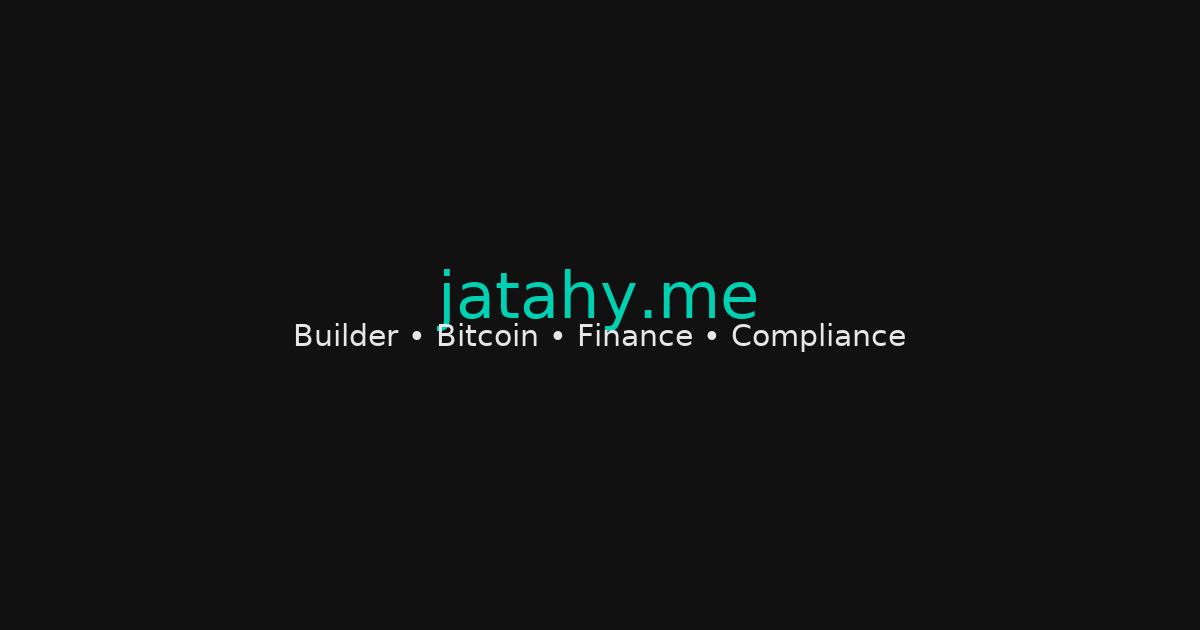
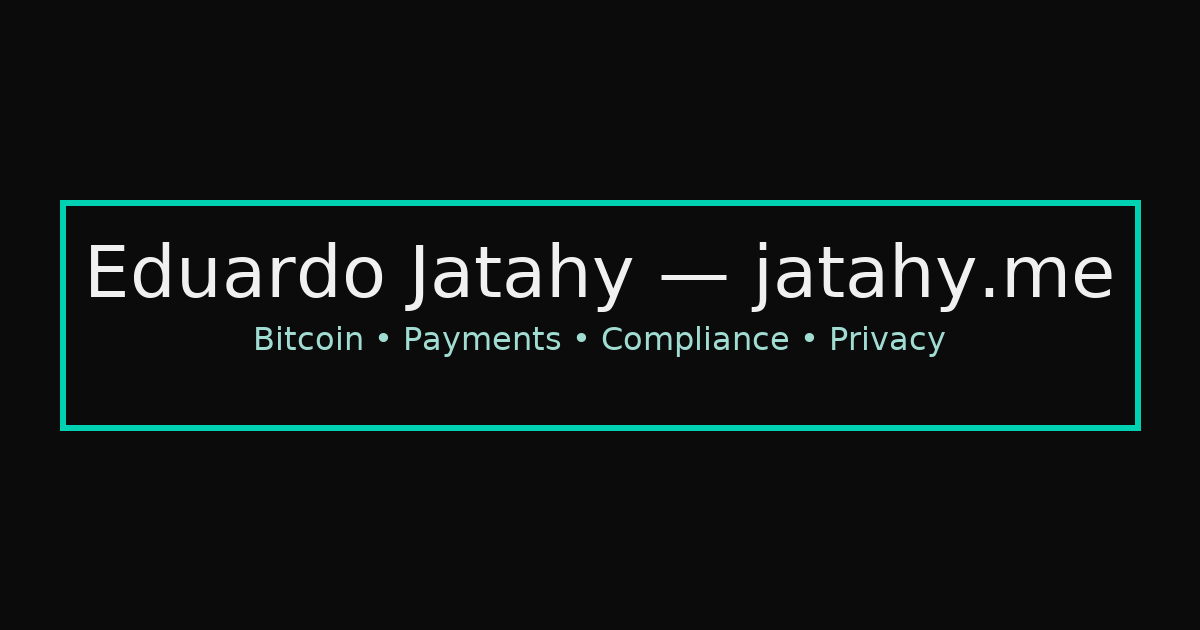
Add files via upload

Changed region(s): [[0.0308, 0.3016, 0.9558, 0.6937]]

diff --git a/assets/style.css b/assets/style.css
@@ -1,45 +1,68 @@
 
 :root{
   --bg:#0b0b0b;
-  --fg:#e8e8e8;
-  --muted:#b0b0b0;
+  --fg:#e9eef1;
+  --muted:#b8c2c6;
   --accent:#00d1b2;
-  --card:#121212;
-  --border:#1f1f1f;
+  --accent2:#00ffa3;
+  --card:#0f1214;
+  --border:#1a2226;
+  --shadow: 0 10px 30px rgba(0,0,0,.35);
 }
 *{box-sizing:border-box}
 html,body{height:100%}
 body{
   margin:0;
-  font-family:system-ui,-apple-system,Segoe UI,Roboto,Ubuntu,Cantarell,'Helvetica Neue',Arial,'Noto Sans',sans-serif;
-  background:var(--bg);
+  font-family:ui-sans-serif,system-ui,Segoe UI,Roboto,Ubuntu,Cantarell,'Helvetica Neue',Arial,'Noto Sans',sans-serif;
+  background: radial-gradient(1200px 800px at 10% -10%, rgba(0,209,178,.18), transparent),
+              radial-gradient(900px 700px at 110% 10%, rgba(0,255,163,.14), transparent),
+              #0b0b0b;
   color:var(--fg);
-  line-height:1.6;
+  line-height:1.65;
 }
-a{color:var(--accent);text-decoration:none}
-a:hover{text-decoration:underline}
-.container{max-width:1080px;margin:0 auto;padding:24px}
-nav{display:flex;justify-content:space-between;align-items:center;padding:16px 0;border-bottom:1px solid var(--border);position:sticky;top:0;background:rgba(11,11,11,0.8);backdrop-filter:blur(8px);}
-.brand{font-weight:700;letter-spacing:0.3px}
-.brand span{color:var(--accent)}
-nav ul{display:flex;gap:16px;list-style:none;margin:0;padding:0}
+a{color:var(--accent);text-decoration:none;transition:color .2s ease}
+a:hover{color:var(--accent2)}
+.container{max-width:1100px;margin:0 auto;padding:24px}
+nav{
+  display:flex;justify-content:space-between;align-items:center;
+  padding:14px 0;border-bottom:1px solid var(--border);
+  position:sticky;top:0;background:rgba(10,12,13,.7);backdrop-filter:blur(10px);z-index:20
+}
+.brand{display:flex;align-items:center;gap:10px;font-weight:800;letter-spacing:.3px}
+.badge-dot{width:8px;height:8px;border-radius:50%;background:linear-gradient(45deg,var(--accent),var(--accent2))}
+nav ul{display:flex;gap:14px;list-style:none;margin:0;padding:0}
 nav a{padding:8px 10px;border-radius:10px}
-.hero{display:grid;grid-template-columns:1.2fr 0.8fr;gap:32px;padding:56px 0}
-.hero h1{font-size:46px;line-height:1.1;margin:0 0 12px}
-.hero p{color:var(--muted);margin:0 0 24px}
-.card{background:var(--card);border:1px solid var(--border);border-radius:18px;padding:20px}
+.hero{
+  display:grid;grid-template-columns:1.2fr .8fr;gap:28px;padding:54px 0
+}
+.card{
+  background:linear-gradient(180deg,rgba(18,20,22,.9),rgba(18,20,22,.85));
+  border:1px solid var(--border);border-radius:20px;padding:22px;box-shadow:var(--shadow)
+}
+.hero h1{font-size:46px;line-height:1.1;margin:4px 0 12px}
+.hero p{color:var(--muted);margin:0 0 20px}
+.avatar{
+  width:84px;height:84px;border-radius:18px;display:grid;place-items:center;
+  background:linear-gradient(135deg,var(--accent),var(--accent2));color:#05231d;font-weight:900;font-size:30px
+}
+.kicker{display:flex;align-items:center;gap:10px;color:var(--muted);font-size:13px}
 .grid{display:grid;gap:20px}
 .grid.cols-3{grid-template-columns:repeat(3,1fr)}
 .grid.cols-2{grid-template-columns:repeat(2,1fr)}
-.btn{display:inline-block;background:var(--accent);color:#051311;padding:12px 16px;border-radius:12px;font-weight:600}
-.btn.secondary{background:transparent;color:var(--fg);border:1px solid var(--border)}
-.section{padding:32px 0}
-.section h2{margin:0 0 12px;font-size:28px}
-.badge{display:inline-block;padding:4px 10px;border:1px solid var(--border);border-radius:999px;color:var(--muted);font-size:13px;margin-right:8px}
-.footer{padding:32px 0;border-top:1px solid var(--border);color:var(--muted);font-size:14px}
-.list{padding-left:18px;margin:0}
+.btn{display:inline-block;background:linear-gradient(135deg,var(--accent),var(--accent2));color:#051311;
+  padding:12px 16px;border-radius:12px;font-weight:700;box-shadow:var(--shadow);transform:translateY(0);transition:transform .12s ease, filter .2s ease}
+.btn:hover{transform:translateY(-1px);filter:saturate(1.1)}
+.btn.secondary{background:transparent;color:var(--fg);border:1px solid var(--border);box-shadow:none}
+.section{padding:30px 0}
+.section h2{margin:0 0 10px;font-size:28px}
+.kv{display:flex;align-items:center;gap:14px;margin:10px 0 14px}
 .taglist{display:flex;flex-wrap:wrap;gap:8px}
-.tag{border:1px solid var(--border);border-radius:999px;padding:6px 10px;font-size:13px;color:var(--muted)}
-@media (max-width:900px){
-  .hero{grid-template-columns:1fr}
-}
+.tag{border:1px solid var(--border);border-radius:999px;padding:6px 10px;font-size:13px;color:var(--muted);background:#0c0f11}
+.media-grid{display:grid;gap:16px;grid-template-columns:repeat(2,1fr)}
+.media-card{border:1px solid var(--border);border-radius:16px;padding:14px;background:#0e1012;transition:transform .12s ease, border-color .2s ease}
+.media-card:hover{transform:translateY(-2px);border-color:#22343a}
+.media-title{margin:0 0 4px}
+.media-meta{color:var(--muted);font-size:13px;margin:0}
+.footer{padding:28px 0;border-top:1px solid var(--border);color:var(--muted);font-size:14px}
+.list{padding-left:18px;margin:0}
+@media (max-width:900px){.hero{grid-template-columns:1fr}.media-grid{grid-template-columns:1fr}}

diff --git a/assets/script.js b/assets/script.js
@@ -4,22 +4,15 @@ document.querySelectorAll('a[href^="#"]').forEach(a => {
   a.addEventListener('click', e => {
     const id = a.getAttribute('href').slice(1);
     const el = document.getElementById(id);
-    if(el){
-      e.preventDefault();
-      el.scrollIntoView({behavior:'smooth'});
-    }
+    if(el){ e.preventDefault(); el.scrollIntoView({behavior:'smooth'}); }
   });
 });
-
 // Copy email
-const copyBtns = document.querySelectorAll('[data-copy]');
-copyBtns.forEach(btn => {
+document.querySelectorAll('[data-copy]').forEach(btn => {
   btn.addEventListener('click', () => {
     const text = btn.getAttribute('data-copy');
     navigator.clipboard.writeText(text).then(() => {
-      const old = btn.textContent;
-      btn.textContent = 'Copied!';
-      setTimeout(()=>btn.textContent=old,1500);
+      const old = btn.textContent; btn.textContent='Copied!'; setTimeout(()=>btn.textContent=old,1200);
     });
   });
 });
